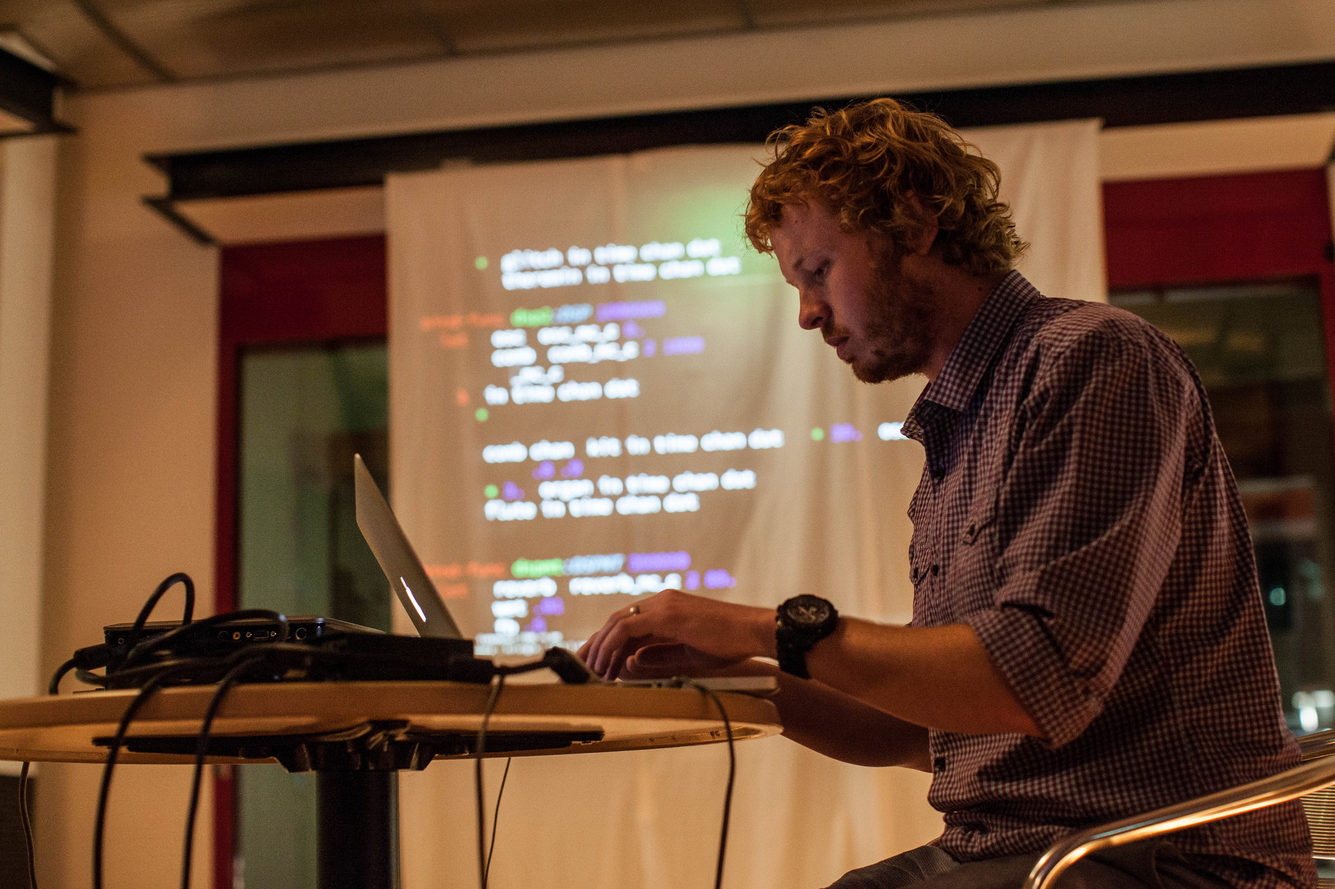
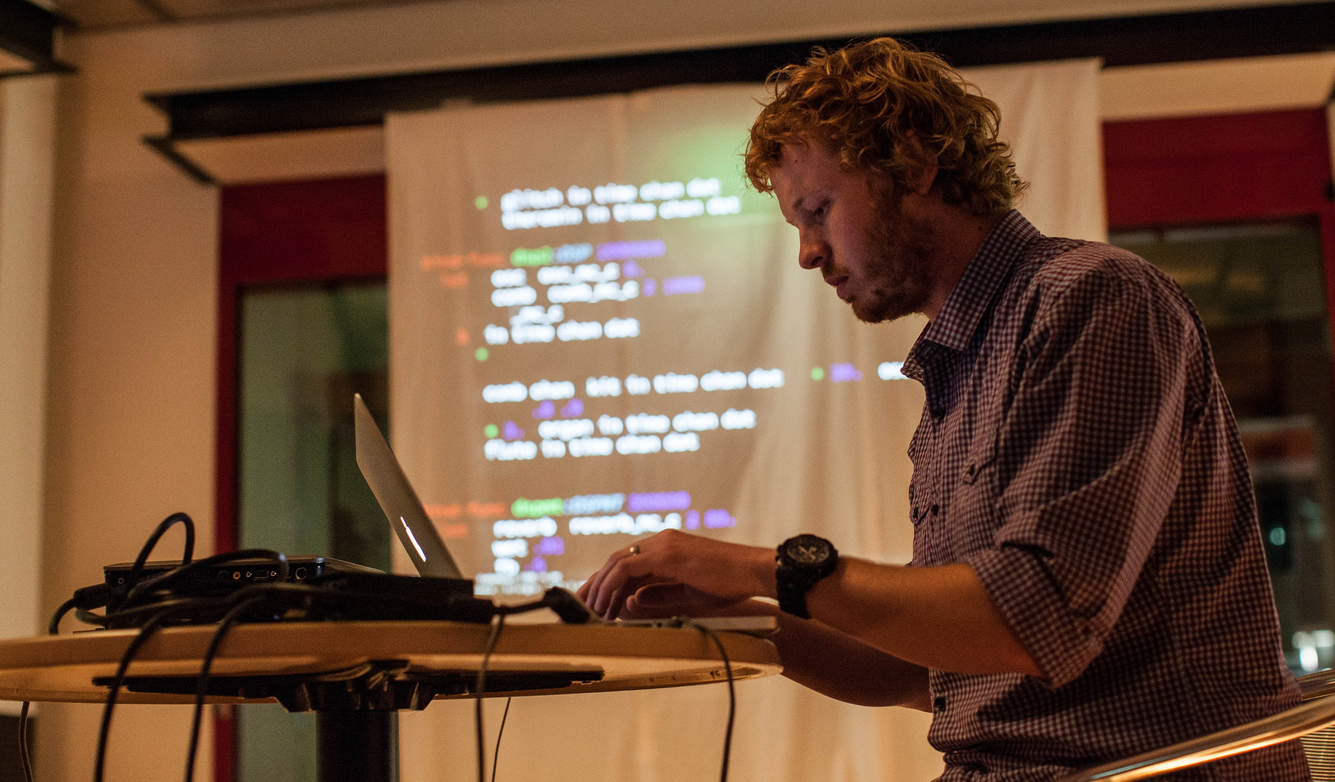
Figure edits.

diff --git a/thesis/intro.tex b/thesis/intro.tex
@@ -78,6 +78,13 @@ Some of the most important and influential live coding environments over the las
 
 \subsection{Visualisation}
 
+\begin{figure}
+\centering
+\includegraphics[width=1.0\textwidth]{../images/gource.png}
+\caption{An example of Gource. This software visualisation shows each file in the software project as a node and orders the nodes according to the directory structure. Data is extracted from source code repositories.}
+\label{fig:gource}
+\end{figure}
+
 Modern visualisation generally has two distinct definitions. The first definition involves representing data graphically while the other definition describes the process of forming mental visual images. {\color{red} Both processes can assist in the communication and understanding of information}
 
 Since its inception, the visualisation of data has revolutionised how information is represented and understood. The earliest examples of summarising data using images occurred in William Playfair's \textit{The Commercial and Political Atlas}. Playfair developed a number of graphical representations of data that are very common today including the line chart, the bar chart and the pie chart.
@@ -89,7 +96,7 @@ Since its inception, the visualisation of data has revolutionised how informatio
 
 % Discuss information needs of the modern age...
 
-Exisiting source code visualisations such as Gource~\cite{Caudwell2010} and Code Swarm~\cite{Ogawa2012} show historic source code changes, based off source code respository data. Inline annotations~\cite{Swift2013} provide direct feedback directly useful to the programmer and technologies such Light Table~\cite{Kodowa2014} with an inline interactive terminal or \ac{REPL} have further identified the need to provide more visual information regarding active programs.
+Exisiting source code visualisations such as Gource~\cite{Caudwell2010} (see Figure~\ref{fig:gource}) and Code Swarm~\cite{Ogawa2012} show historic source code changes, based off source code respository data. Inline annotations~\cite{Swift2013} provide direct feedback directly useful to the programmer and technologies such Light Table~\cite{Kodowa2014} with an inline interactive terminal or \ac{REPL} have further identified the need to provide more visual information regarding active programs.
 
 \section{Structure}
 

diff --git a/thesis/chap3.tex b/thesis/chap3.tex
@@ -3,7 +3,7 @@
 \chapter{Visualisation Design}
 \label{chap:visualisation-design}
 
-Following the field study (see Chapter~\ref{chap:exploratory-field-study}), a strategy for visualisation prototyping and evaluation was developed. The field study indicated a need for further investigation of the application of visualisations to the live coding process. Further reasoning behind developing visualisations, the process and the resulting software prototype are outlined in this chapter.
+Following the exploratory field study (see Chapter~\ref{chap:exploratory-field-study}), a strategy for visualisation prototyping and evaluation was developed. The field study indicated a need for further investigation of the application of visualisations to the live coding process. This chapter outlines the reasoning behind developing a set of prototype visualisations, the process of development and the resulting software prototype.
 
 % {\color{red}\cite{Ware2013a,McLean2010a,Purchase1996} will be useful here.}
 

diff --git a/thesis/chap2.tex b/thesis/chap2.tex
@@ -5,7 +5,7 @@
 
 \begin{figure}
 \centering
-\includegraphics[width=0.9\textwidth]{../images/study-1-you-are-here-ben.jpg}
+\includegraphics[width=1.0\textwidth]{../images/study-1-you-are-here-ben.jpg}
 \caption{A live coder performs at the ``You Are Here'' arts festival in Canberra for an exploratory field study. The standard live coding setup includes a laptop connected to a projector (pictured in foreground) displaying program source code (pictured in background) to an audience.}
 \label{fig:exploratory-field-study-ben}
 \end{figure}
